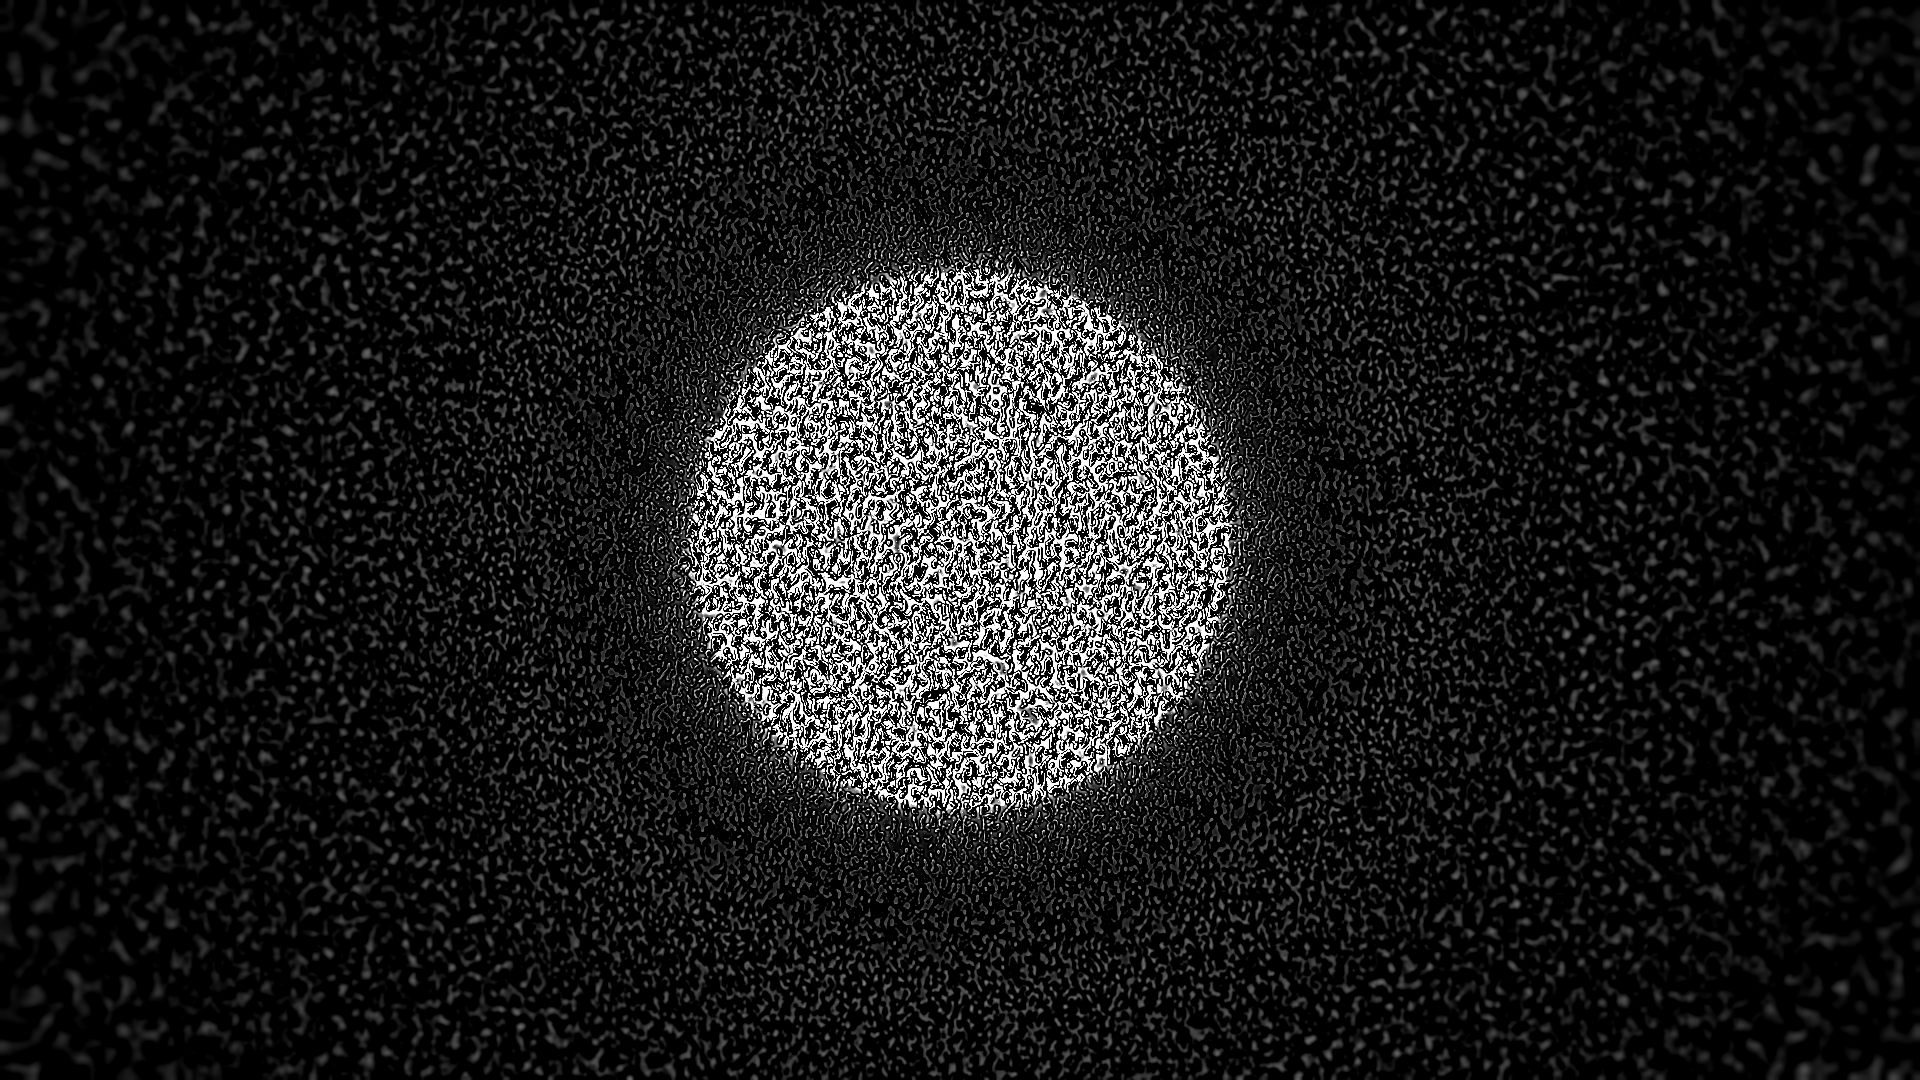
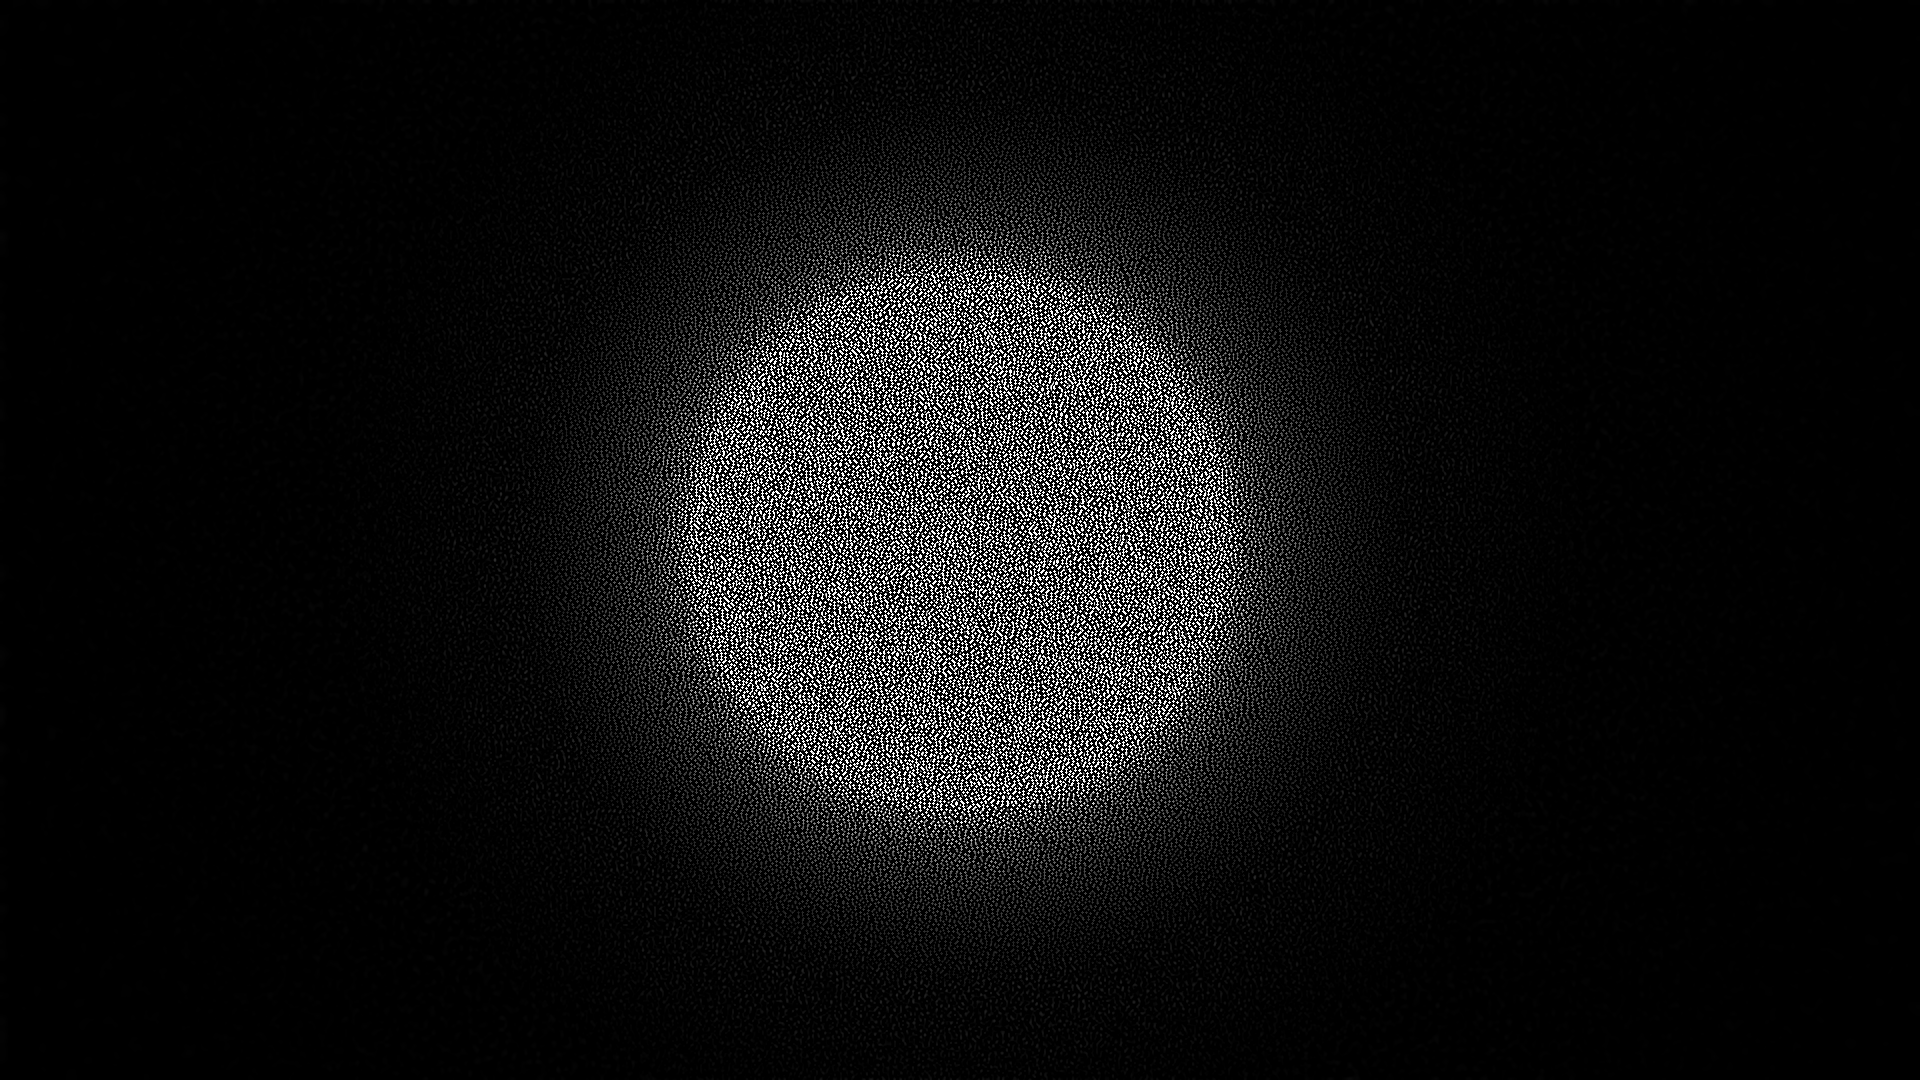
Some better poisson disc noise convolutions using Gaussian differences

diff --git a/src/bluenoise.py b/src/bluenoise.py
@@ -22,6 +22,8 @@ def poisson_disk_points(height, width, radius_px, seed=0):
 # 68% of the distribution within 1 pixel (+0.5, -0.5),
 # 95% within 2 totals (total width, a 2x2 window), and
 # 97% within 3 width (1.5 either side = 3x3 window)
+
+# This function creates a field of Gaussians centered around the poisson points
 def blue_noise_field_from_poisson_points(height, width, r_px = 12, seed = 0, sigma_blob = 0.5):
 	points = poisson_disk_points(height, width, r_px, seed)
 	field = np.zeros((height, width), np.float32)
@@ -30,48 +32,91 @@ def blue_noise_field_from_poisson_points(height, width, r_px = 12, seed = 0, sig
 	gaussian_blob = (gaussian_term @ gaussian_term.T).astype(np.float32)
 	half_y = half_x = kernel_size // 2
 
+	# This splats a single gaussian at each point.
+	# I wonder if multiple gaussians need to be splatted... take into account feature orientation?
+	for (x, y) in points:
+		(xi, yi) = int(round(x)), int(round(y)) # center
+		(y0, y1) = max(0, yi - half_y), min(height, yi + half_y + 1)  # bottom to top
+		(x0, x1) = max(0, xi - half_x), min(width, xi + half_x + 1) # left to right
+		(by0, by1) = half_y - (yi - y0), half_y + (y1 - yi) - 1
+		(bx0, bx1) = half_x - (xi - x0), half_x + (x1 - xi) - 1
+		field[y0:y1, x0:x1] += gaussian_blob[by0:by1 + 1, bx0:bx1 + 1]
+	field -= field.mean()
+	field /= (field.std() + 1e-6)
+	
+	field_norm = (field - field.min()) / (field.max() - field.min())
+
+
+	return field_norm
+
+
+def blue_noise_field_from_poisson_points2(height, width, r_px = 12, seed = 0, sigma_blob = 0.5):
+	points = poisson_disk_points(height, width, r_px, seed)
+	field = np.zeros((height, width), np.float32)
+
+	kappa = 1.6
+	sigma1 = float(sigma_blob)
+	sigma2 = max(1e-6, kappa * sigma1)
+	kernel_size = (int(max(7, int(6 * sigma2) + 1)) | 1)
+	ga1 = cv2.getGaussianKernel(kernel_size, sigma1).astype(np.float32)
+	ga2 = cv2.getGaussianKernel(kernel_size, sigma2).astype(np.float32)
+	G1 = (ga1 @ ga1.T)
+	G2 = (ga2 @ ga2.T)
+	alpha = float(G1.sum()) / (float(G2.sum()) + 1e-12)
+	K = G1 - alpha * G2
+	K -= K.mean()
+	K /= (np.sqrt((K * K).sum()) + 1e-12)
+	half_y = half_x = kernel_size // 2
+
 	for (x, y) in points:
 		(xi, yi) = int(round(x)), int(round(y))
 		(y0, y1) = max(0, yi - half_y), min(height, yi + half_y + 1)
 		(x0, x1) = max(0, xi - half_x), min(width, xi + half_x + 1)
 		(by0, by1) = half_y - (yi - y0), half_y + (y1 - yi) - 1
 		(bx0, bx1) = half_x - (xi - x0), half_x + (x1 - xi) - 1
-		field[y0:y1, x0:x1] += gaussian_blob[by0:by1 + 1, bx0:bx1 + 1]
+		Kc = K[by0:by1 + 1, bx0:bx1 + 1]
+		Kc = Kc - Kc.mean()
+		Kc /= (np.sqrt((Kc * Kc).sum()) + 1e-12)
+		field[y0:y1, x0:x1] += Kc
+
 	field -= field.mean()
 	field /= (field.std() + 1e-6)
+
 	return field
 
+
+
+
+
+
 def bandlimited_blue_noise(height, width, sigma_map, levels = 5, r_px = 12, seed = 0, sigma_blob = 0.5):
-    # Generate base blue noise field
-    field = blue_noise_field_from_poisson_points(height, width, r_px = r_px, seed = seed, sigma_blob = sigma_blob)
-    
-    # Create pyramids
-    Gn = make_gaussian_pyramid(field, levels)
-    Ln = make_laplacian_pyramid(field, levels, gaussian_pyramid = Gn)
-    
-    # Resize all Laplacian bands to full resolution
-    full = []
-    for l in range(levels - 1):
-        full.append(cv2.resize(Ln[l].astype(np.float32), (width, height), interpolation = cv2.INTER_CUBIC))
-    full = np.stack(full, axis = 0)
-    
-    # Select appropriate band based on sigma_map
-    l_a = choose_laplacian_level_from_sigma(sigma_map)
-    l0 = np.clip(np.floor(l_a).astype(np.int32), 0, levels - 2)
-    l1 = np.clip(l0 + 1, 0, levels - 2)
-    t = (l_a - l0).astype(np.float32)
-    
-    yy = np.arange(height)[:, None]
-    xx = np.arange(width)[None, :]
-    N0 = full[l0, yy, xx]
-    N1 = full[l1, yy, xx]
-    result = (1.0 - t) * N0 + t * N1
-    
-    # Normalize to unit variance (like your original)
-    result -= result.mean()
-    result /= (result.std() + 1e-6)
-    
-    return result
+	field = blue_noise_field_from_poisson_points2(height, width, r_px = r_px, seed = seed, sigma_blob = sigma_blob)
+
+	gaussian_pyramid = make_gaussian_pyramid(field, levels)
+	laplacian_pyramid = make_laplacian_pyramid(field, levels, gaussian_pyramid = gaussian_pyramid)
+
+	# Resize all Laplacian bands to full resolution
+	full = []
+	for l in range(levels - 1):
+		full.append(cv2.resize(laplacian_pyramid[l].astype(np.float32), (width, height), interpolation = cv2.INTER_CUBIC))
+	full = np.stack(full, axis = 0)
+
+	l_a = choose_laplacian_level_from_sigma(sigma_map)
+	l0 = np.clip(np.floor(l_a).astype(np.int32), 0, levels - 2)
+	l1 = np.clip(l0 + 1, 0, levels - 2)
+	t = (l_a - l0).astype(np.float32)
+
+	yy = np.arange(height)[:, None]
+	xx = np.arange(width)[None, :]
+	N0 = full[l0, yy, xx]
+	N1 = full[l1, yy, xx]
+	result = (1.0 - t) * N0 + t * N1
+
+	result -= result.mean()
+	result /= (result.std() + 1e-6)
+
+	return result
+
 
 def radial_sigma_map(height, width, gaze_xy, px_per_deg, blur_rate_arcmin_per_degree, fovea_radius_deg = 5.0):
 	y, x = np.mgrid[0:height, 0:width]

diff --git a/src/foveation.py b/src/foveation.py
@@ -147,51 +147,52 @@ def display_foveated_results(final_enhanced_image, foveated_image, sigma_map):
 
 
 def generate_blue_noise_enhanced_image(
-    path,
-    levels = 5,
-    gaze_xy = None,
-    dpi = 110.0,
-    viewing_distance_m = 0.6,
-    blur_rate_arcmin_per_degree = 0.34,
-    fe = 0.2,
-    s_k = 20.0,
-    r_px = 12,
-    sigma_blob = 0.5, # Gaussian blob that is splatted at each poisson point.
-    seed = 0
+	path,
+	num_levels = 5,
+	gaze_xy = None,
+	dpi = 110.0,
+	viewing_distance_m = 0.6,
+	blur_rate_arcmin_per_degree = 0.34,
+	fe = 0.2,
+	s_k = 20.0,
+	r_px = 12,
+	sigma_blob = 0.5, # Gaussian blob that is splatted at each poisson point.
+	seed = 0
 ):
-    img = load_image(path, grayscale = False, as_float = True)
-    h, w = img.shape[:2]
-    if gaze_xy is None:
-        gaze_xy = (w // 2, h // 2)
+	img = load_image(path, grayscale = False, as_float = True)
+	h, w = img.shape[:2]
+	if gaze_xy is None:
+		gaze_xy = (w // 2, h // 2)
 
-    ppd = pixels_per_degree(dpi, viewing_distance_m)
-    sigma_map = radial_sigma_map(h, w, gaze_xy, ppd, blur_rate_arcmin_per_degree)
-    foveated_image = foveate_image(img, sigma_map)
+	ppd = pixels_per_degree(dpi, viewing_distance_m)
+	sigma_map = radial_sigma_map(h, w, gaze_xy, ppd, blur_rate_arcmin_per_degree)
+	foveated_image = foveate_image(img, sigma_map)
 
-    wgate = smoothstep(sigma_map, 0.5, 2.0)
-    
-    # Generate band-limited blue noise (just the noise characteristic)
-    noise_bn = bandlimited_blue_noise(h, w, sigma_map, levels = levels, 
-                                      r_px = r_px, seed = seed, sigma_blob = sigma_blob)
-    
-    # Get amplitude from the IMAGE's Laplacian pyramid (not the noise)
-    G = make_gaussian_pyramid(img, levels)
-    L = make_laplacian_pyramid(img, levels, gaussian_pyramid = G)
-    l_a = choose_laplacian_level_from_sigma(sigma_map)
-    amp = amplitude_from_laplacian(L, l_a, s_k = s_k)
-    
-    # Scale noise by amplitude AND gate
-    noise = noise_bn * amp * wgate * 3.0  # <-- Apply wgate here
+	wgate = smoothstep(sigma_map, 0.5, 2.0)
 
-    # Contrast enhancement (also gated)
-    ce_global = contrast_enhance(foveated_image, fe = fe)
-    ce = (1.0 - wgate)[..., None] * foveated_image + wgate[..., None] * ce_global
+	# Generate band-limited blue noise (just the noise characteristic)
+	noise_bn = bandlimited_blue_noise(h, w, sigma_map, levels = num_levels, 
+										r_px = r_px, seed = seed, sigma_blob = sigma_blob)
 
-    Y  = 0.2126 * ce[..., 2] + 0.7152 * ce[..., 1] + 0.0722 * ce[..., 0]
-    Yn = np.clip(Y + noise, 0.0, 1.0)
+	# Get amplitude from the IMAGE's Laplacian pyramid (not the noise)
+	G = make_gaussian_pyramid(img, num_levels)
+	L = make_laplacian_pyramid(img, num_levels, gaussian_pyramid = G)
+	l_a = choose_laplacian_level_from_sigma(sigma_map)
+	amp = amplitude_from_laplacian(L, l_a, s_k = s_k)
 
-    eps = 1e-6
-    scale = ((Yn + eps) / (Y + eps))[..., None]
-    final_enhanced_image = np.clip(ce * scale, 0.0, 1.0)
+	# Scale noise by amplitude AND gate
+	noise = noise_bn * amp * wgate * 3.0  # <-- Apply wgate here
+	#noise = noise_bn * wgate
 
-    return final_enhanced_image, foveated_image, sigma_map, noise, noise_bn, amp
+	# Contrast enhancement (also gated)
+	ce_global = contrast_enhance(foveated_image, fe = fe)
+	ce = (1.0 - wgate)[..., None] * foveated_image + wgate[..., None] * ce_global
+
+	Y  = 0.2126 * ce[..., 2] + 0.7152 * ce[..., 1] + 0.0722 * ce[..., 0]
+	Yn = np.clip(Y + noise, 0.0, 1.0)
+
+	eps = 1e-6
+	scale = ((Yn + eps) / (Y + eps))[..., None]
+	final_enhanced_image = np.clip(ce * scale, 0.0, 1.0)
+
+	return final_enhanced_image, foveated_image, sigma_map, noise, noise_bn, amp
